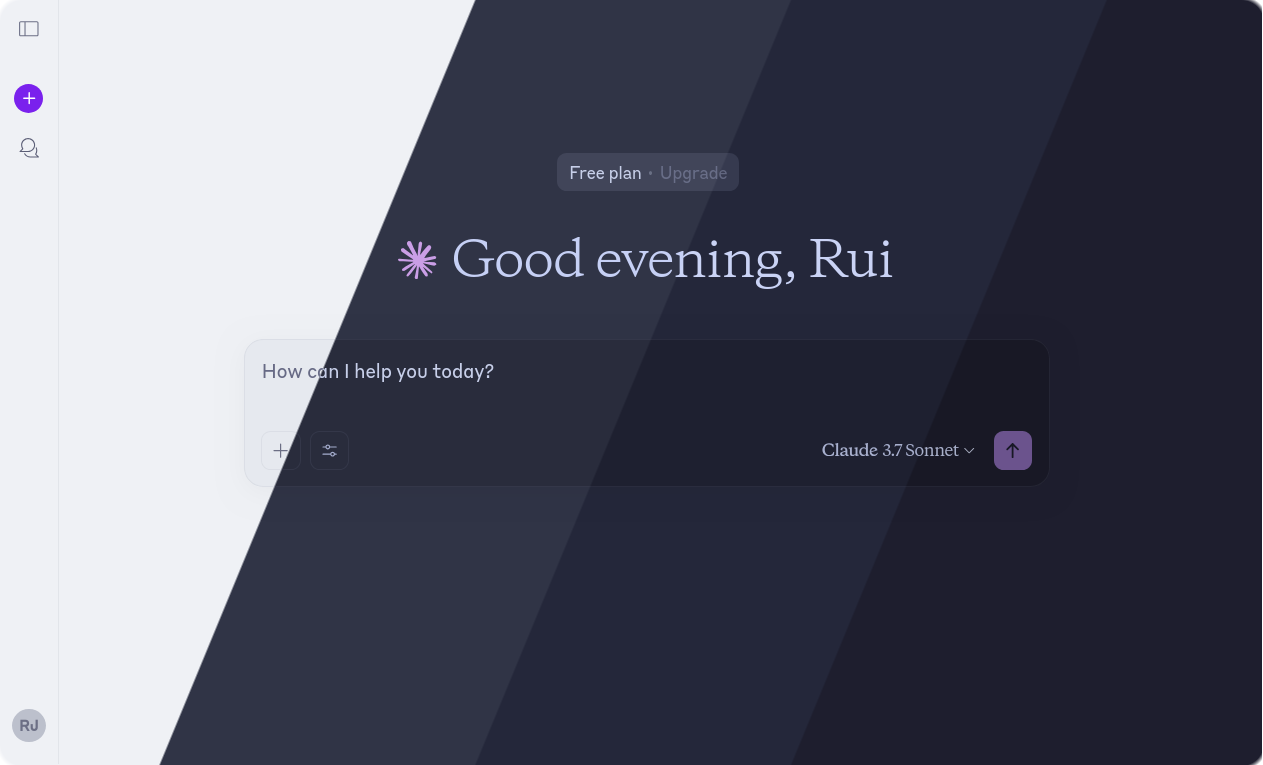
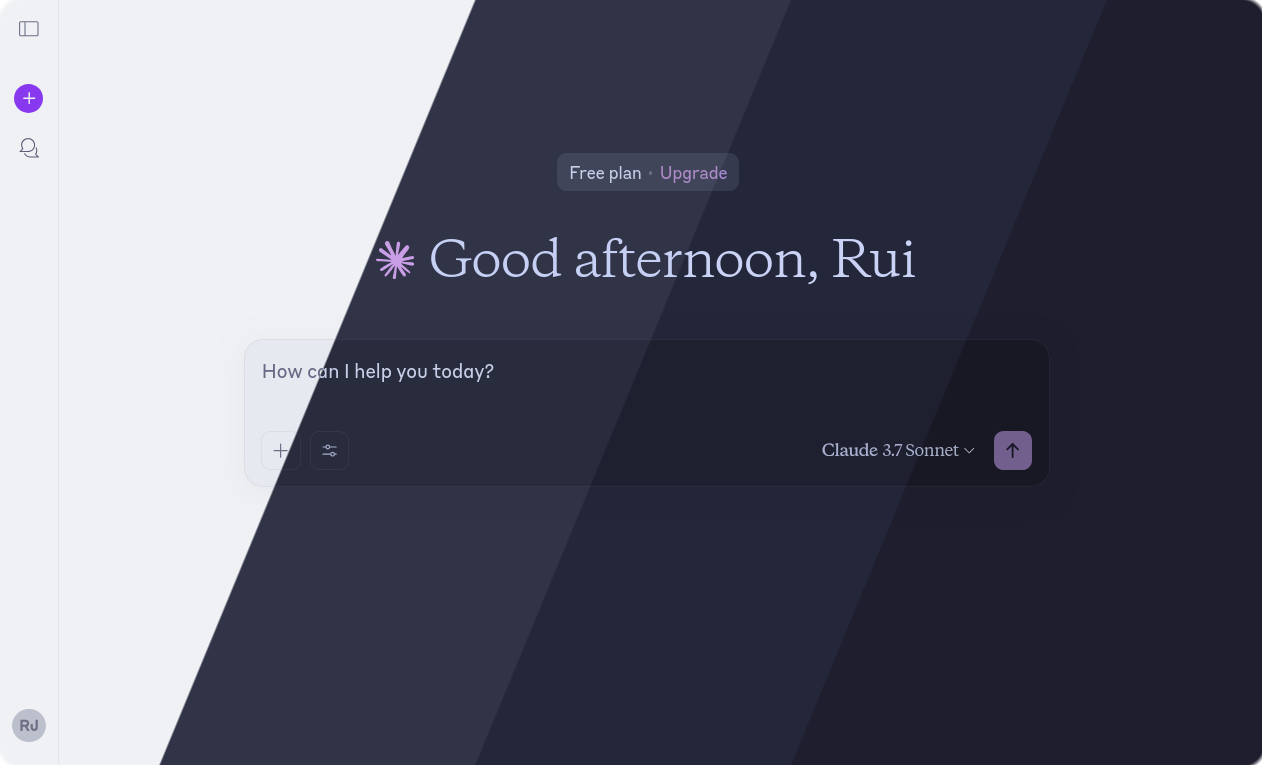
redid accent

Changed region(s): [[0.2779, 0.3007, 0.7411, 0.3908], [0.5249, 0.2105, 0.5867, 0.2405]]

diff --git a/styles/claude/catppuccin.user.less b/styles/claude/catppuccin.user.less
@@ -97,18 +97,18 @@
     }
 
     --accent-brand: #hslify(@accent) [];
-    --accent-main-000: #hslify(darken(@accent, 5%)) [];
+    --accent-main-000: #hslify(@accent) [];
     --accent-main-100: #hslify(@accent) [];
     --accent-main-200: #hslify(@accent) [];
-    --accent-main-900: #hslify(lighten(@accent, 10%)) [];
-    --accent-pro-000: #hslify(darken(@accent, 5%)) [];
+    --accent-main-900: #hslify(@accent) [];
+    --accent-pro-000: #hslify(@accent) [];
     --accent-pro-100: #hslify(@accent) [];
     --accent-pro-200: #hslify(@accent) [];
-    --accent-pro-900: #hslify(lighten(@accent, 10%)) [];
-    --accent-secondary-000: #hslify(@crust) [];
-    --accent-secondary-100: #hslify(@overlay0) [];
-    --accent-secondary-200: #hslify(@overlay1) [];
-    --accent-secondary-900: #hslify(@overlay2) [];
+    --accent-pro-900: #hslify(@accent) [];
+    --accent-secondary-000: #hslify(@accent) [];
+    --accent-secondary-100: #hslify(@accent) [];
+    --accent-secondary-200: #hslify(@accent) [];
+    --accent-secondary-900: #hslify(@accent) [];
     --bg-000: #hslify(@mantle) [];
     --bg-100: #hslify(@base) [];
     --bg-200: #hslify(@base) [];
@@ -163,6 +163,9 @@
     /* Logo */
     svg path[fill="#D97757"] {
       fill: @accent !important;
+    }
+    svg.text-always-white {
+      color: @base !important;
     }
   }
 }
